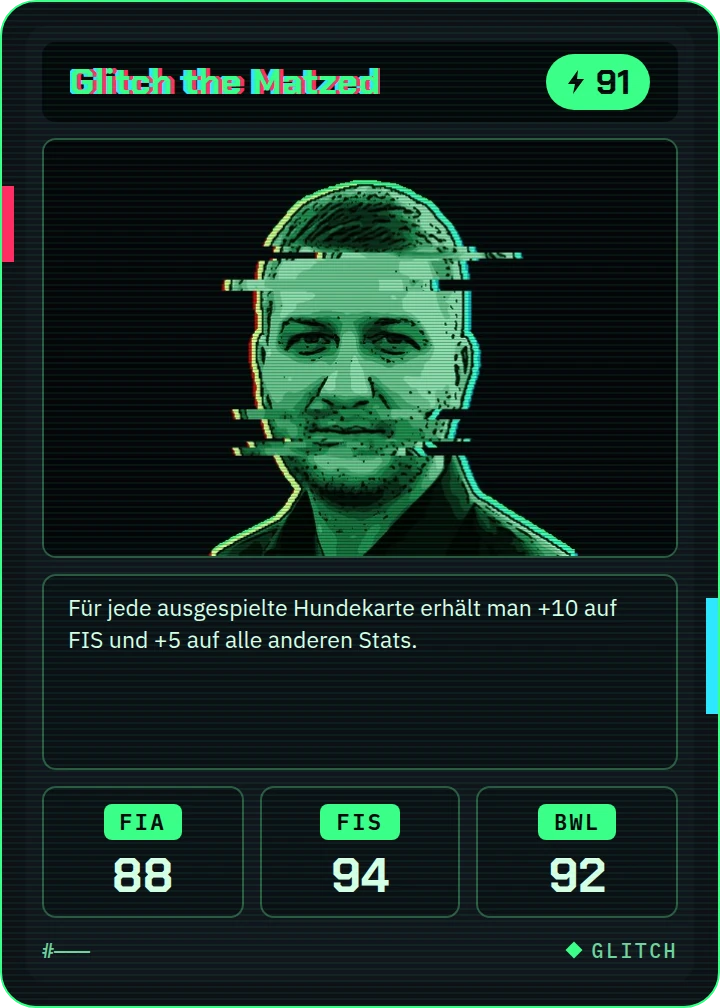
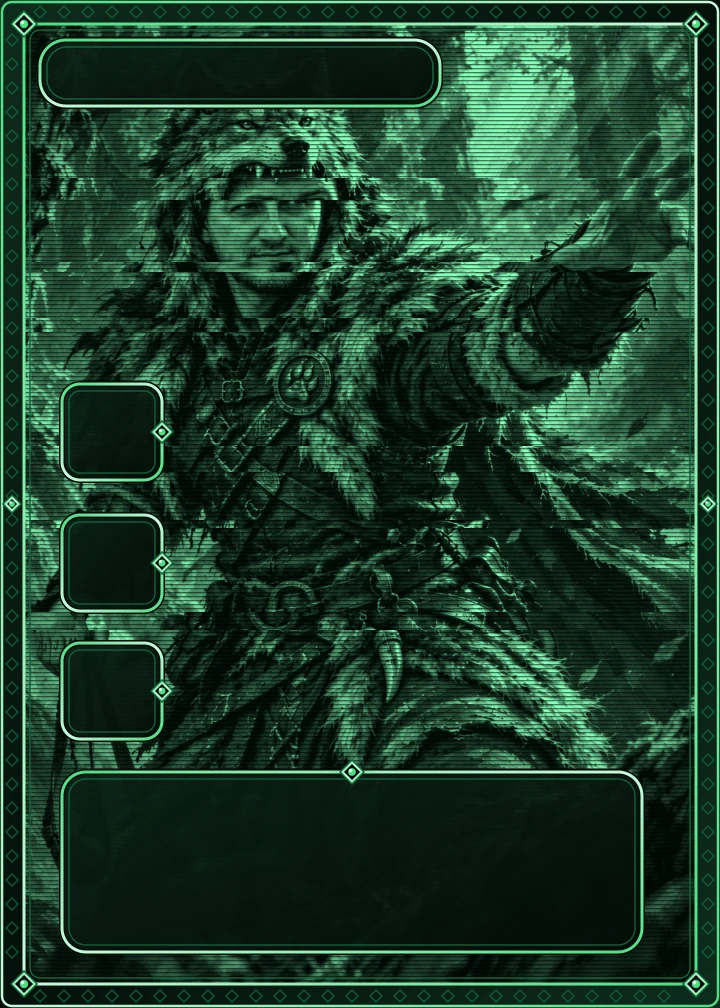
Karten-Overhaul Teil 1: Matze, Luca, Hugo und Lilly im Vollbild-Layout
Neue Motive (vorher in WebP umgewandelt) im Layout von „St. Ivan, the Forsaken“ mit Farben und
Effekten je Seltenheit – genau wie bei Ömer und Aleks:
- Matze und Luca in allen sechs Seltenheiten, Titel, Werte und Fähigkeiten wie bisher
- Hugo und Lilly (Holo, Spell): neuer Rahmen „rar-<seltenheit>-spell“ ohne Wertefenster, mit
  größerem Textfeld und der Plakette „✦ SPELL“ statt Speed; scripts/card-frame.js --spell
Gleiche Karten-IDs – wer die Karten besitzt, hat jetzt die überarbeiteten.

diff --git a/src/tcg/cardData.js b/src/tcg/cardData.js
@@ -87,12 +87,17 @@ const SEASON1_UNRELEASED = {
   ...unreleased('The Gracebringer', ['the-gracebringer-1-footman', 'the-gracebringer-2-gold', 'the-gracebringer-3-holo', 'the-gracebringer-4-arcane']),
 };
 
-// Karten-Overhaul Teil 1: Ömer und Aleks im Vollbild-Layout von St. Ivan, the Forsaken – je Seltenheit eigene Farben und
+// Karten-Overhaul Teil 1: Ömer, Aleks, Matze, Luca, Hugo und Lilly im Vollbild-Layout von St. Ivan, the Forsaken – je Seltenheit eigene Farben und
 // Effekte (Rahmen „rar-<seltenheit>“ in frames.js, Bilder aus scripts/card-frame.js). Gleiche Karten-IDs wie bisher: wer
 // die Karte hatte, hat jetzt die überarbeitete. Werte unverändert aus stats.js, Fähigkeit wie in src/ihk/abilities.js.
 const overhaul = (name, abilityName, ability) => (id, rarity, title) => ({ season: 'pre-season', frame: `rar-${rarity}`, name, title, stats: require('./stats')[id], abilityName, ability });
 const omer = overhaul('Ömer', 'Macht der Osmanen', 'Verleiht freundlichen ITler-Karten die Macht der Osmanen und erhöht dadurch dauerhaft ihre FIS-Stärke um 15 %.');
 const aleks = overhaul('Aleks', 'Russische Telefonnummer', 'Nach dem Anrufen einer russischen Telefonnummer ist es in der Lage, die von ihm selbst generierten Punkte einmalig auf das Maximum (99) zu fälschen.');
+const matze = overhaul('Matze', 'Hundekarte!', 'Für jede ausgespielte Hundekarte erhält man +10 auf FIS und +5 auf alle anderen Stats.');
+const luca = overhaul('Luca', 'Simulationsspiel-Erfahrung', 'Aufgrund seiner wirtschaftlichen Erfahrungen aus Simulationsspielen ist er in der Lage, sein eigenes BWL-Niveau um 50 % zu steigern.');
+// Hunde (Spell, ohne Werte): Rahmen ohne Wertefenster, Plakette „✦ SPELL“ (rar-holo-spell)
+const DOG_TEXT = 'Jede ausgespielte Hundekarte erhöht alle Werte der freundlichen Charaktere um 3. Es können maximal zwei Hunde gleichzeitig ausgespielt werden, und derselbe Hund darf nicht mehrfach ausgespielt werden.';
+const dog = (name) => ({ season: 'pre-season', frame: 'rar-holo-spell', name, stats: [0, 0, 0, 0], ability: DOG_TEXT });
 const OVERHAUL = {
   'omer-1-crumpled': omer('omer-1-crumpled', 'crumpled', 'Ömer the Crumpled'),
   'omer-2-bfwler': omer('omer-2-bfwler', 'bfwler', 'Ömer the BFWler'),
@@ -106,6 +111,20 @@ const OVERHAUL = {
   'aleks-4-holo': aleks('aleks-4-holo', 'holo', 'Aleks the Holographic'),
   'aleks-5-bockhaber': aleks('aleks-5-bockhaber', 'bockhaber', 'Aleks the Bockhaber'),
   'aleks-6-glitch': aleks('aleks-6-glitch', 'glitch', 'Glitch the Aleksed'),
+  'matze-1-crumpled': matze('matze-1-crumpled', 'crumpled', 'Matze the Crumpled'),
+  'matze-2-bfwler': matze('matze-2-bfwler', 'bfwler', 'Matze the BFWler'),
+  'matze-3-gold': matze('matze-3-gold', 'gold', 'Matze the Golden'),
+  'matze-4-holo': matze('matze-4-holo', 'holo', 'Matze the Holographic'),
+  'matze-5-bockhaber': matze('matze-5-bockhaber', 'bockhaber', 'Matze the Bockhaber'),
+  'matze-6-glitch': matze('matze-6-glitch', 'glitch', 'Glitch the Matzed'),
+  'luca-1-crumpled': luca('luca-1-crumpled', 'crumpled', 'Luca the Crumpled'),
+  'luca-2-bfwler': luca('luca-2-bfwler', 'bfwler', 'Luca the BFWler'),
+  'luca-3-gold': luca('luca-3-gold', 'gold', 'Luca the Golden'),
+  'luca-4-holo': luca('luca-4-holo', 'holo', 'Luca the Holographic'),
+  'luca-5-bockhaber': luca('luca-5-bockhaber', 'bockhaber', 'Luca the Bockhaber'),
+  'luca-6-glitch': luca('luca-6-glitch', 'glitch', 'Glitch the Lucaed'),
+  'hugo-holo': dog('Hugo'),
+  'lilly-holo': dog('Lilly'),
 };
 
 module.exports = {

diff --git a/scripts/card-frame.js b/scripts/card-frame.js
@@ -6,9 +6,11 @@
 // Name, Werte und Fähigkeitstext setzt der Code (src/tcg/frames.js „rar-<seltenheit>“, src/tcg/cardSvg.js) – hier
 // entstehen nur Motiv und Rahmen (720 × 1008, WebP).
 //
-// node scripts/card-frame.js <bild> <seltenheit> <ziel.webp> [vorschau.png]
+// node scripts/card-frame.js <bild> <seltenheit> <ziel.webp> [vorschau.png] [--spell]
+// --spell: Karte ohne Werte (Hunde wie Hugo und Lilly) – keine Wertefenster, größeres Textfenster (Rahmen „rar-<s>-spell“)
 const sharp = require('sharp');
-const [SRC, RARITY, DEST, PREVIEW] = process.argv.slice(2);
+const SPELL = process.argv.includes('--spell');
+const [SRC, RARITY, DEST, PREVIEW] = process.argv.slice(2).filter((a) => a !== '--spell');
 const W = 720;
 const H = 1008;
 
@@ -96,7 +98,8 @@ const EFFECTS = {
     '<rect x="711" y="300" width="9" height="74" fill="#22d3ee"/><rect x="713" y="820" width="7" height="30" fill="#22d3ee" opacity=".8"/>',
 };
 
-const stats = [432, 563, 691].map((cy) => pane(62, cy - 48, 100, 96, 18) + gem(162, cy)).join('');
+const stats = SPELL ? '' : [432, 563, 691].map((cy) => pane(62, cy - 48, 100, 96, 18) + gem(162, cy)).join('');
+const TEXT_Y = SPELL ? 712 : 772; // Spell: Textfenster höher (längerer Text, keine Werte)
 const svg = `<svg xmlns="http://www.w3.org/2000/svg" width="${W}" height="${H}" viewBox="0 0 ${W} ${H}">
   <defs>
     <linearGradient id="acc" x1="0" y1="0" x2="1" y2="1">${accentStops}</linearGradient>
@@ -124,9 +127,9 @@ const svg = `<svg xmlns="http://www.w3.org/2000/svg" width="${W}" height="${H}" 
   <rect x="40" y="40" width="400" height="66" rx="26" fill="none" stroke="url(#acc)" stroke-width="3"/>
   <rect x="47" y="47" width="386" height="52" rx="20" fill="none" stroke="${S.dark}" stroke-width="1.5"/>
   ${stats}
-  ${pane(62, 772, 580, 180, 24)}
-  ${gem(352, 772, 12)}
-  <path d="M120 772 H330 M374 772 H584" stroke="${S.light}" stroke-width="1" opacity=".5"/>
+  ${pane(62, TEXT_Y, 580, 952 - TEXT_Y, 24)}
+  ${gem(352, TEXT_Y, 12)}
+  <path d="M120 ${TEXT_Y} H330 M374 ${TEXT_Y} H584" stroke="${S.light}" stroke-width="1" opacity=".5"/>
   ${RARITY === 'crumpled' ? EFFECTS.crumpled().replace(/<circle[\s\S]*$/, '') : ''}
 </svg>`;
 

diff --git a/src/tcg/cardSvg.js b/src/tcg/cardSvg.js
@@ -80,6 +80,17 @@ function statsSvg(frame, values, base) {
     .join('');
 }
 
+// Plakette mit Text statt Zahl (Spell-Karten): „✦ SPELL“
+function badgeSvg(frame) {
+  const p = frame.speed;
+  const c = frame.colors;
+  const cy = p.y + p.h / 2;
+  return (
+    `<rect x="${p.x - 30}" y="${p.y}" width="${p.w + 30}" height="${p.h}" rx="${p.h / 2}" fill="${c.plate}" stroke="${c.plateBorder}" stroke-width="3"/>` +
+    `<text x="${p.x - 30 + (p.w + 30) / 2}" y="${cy + 8}" text-anchor="middle" font-size="22" font-weight="700" letter-spacing="2" fill="${c.value}" stroke-width="3" ${textAttrs(c)}>✦ ${esc(frame.badge)}</text>`
+  );
+}
+
 function speedSvg(frame, value, base) {
   const p = frame.speed;
   const c = frame.colors;
@@ -140,7 +151,7 @@ function render(card, values = {}) {
     `<title>${esc(card.name)}</title>` +
     `<image width="${w}" height="${h}" xlink:href="${artData(card.artFile)}"/>` +
     (frame.name ? nameSvg(frame, card.title || card.name) : '') +
-    (frame.speed ? speedSvg(frame, v.speed, base.speed) : '') +
+    (frame.badge ? badgeSvg(frame) : frame.speed ? speedSvg(frame, v.speed, base.speed) : '') +
     statsSvg(frame, v, base) +
     abilitySvg(frame, card.ability, card.abilityName) +
     '</svg>'

diff --git a/src/tcg/frames.js b/src/tcg/frames.js
@@ -114,4 +114,11 @@ for (const [key, c] of Object.entries(RARITY_COLORS)) {
     text: { x: 92, y: 790, w: 520, h: 144, size: 25, minSize: 15, lineHeight: 1.32 },
     colors: { ...module.exports.gilded.colors, ...c },
   };
+  // Spell (Karten ohne Werte, z. B. die Hunde Hugo und Lilly): keine Wertefenster, Plakette „✦ SPELL“, größeres Textfeld
+  module.exports[`rar-${key}-spell`] = {
+    ...module.exports[`rar-${key}`],
+    stats: [],
+    badge: 'SPELL',
+    text: { x: 92, y: 730, w: 520, h: 204, size: 26, minSize: 15, lineHeight: 1.34 },
+  };
 }
